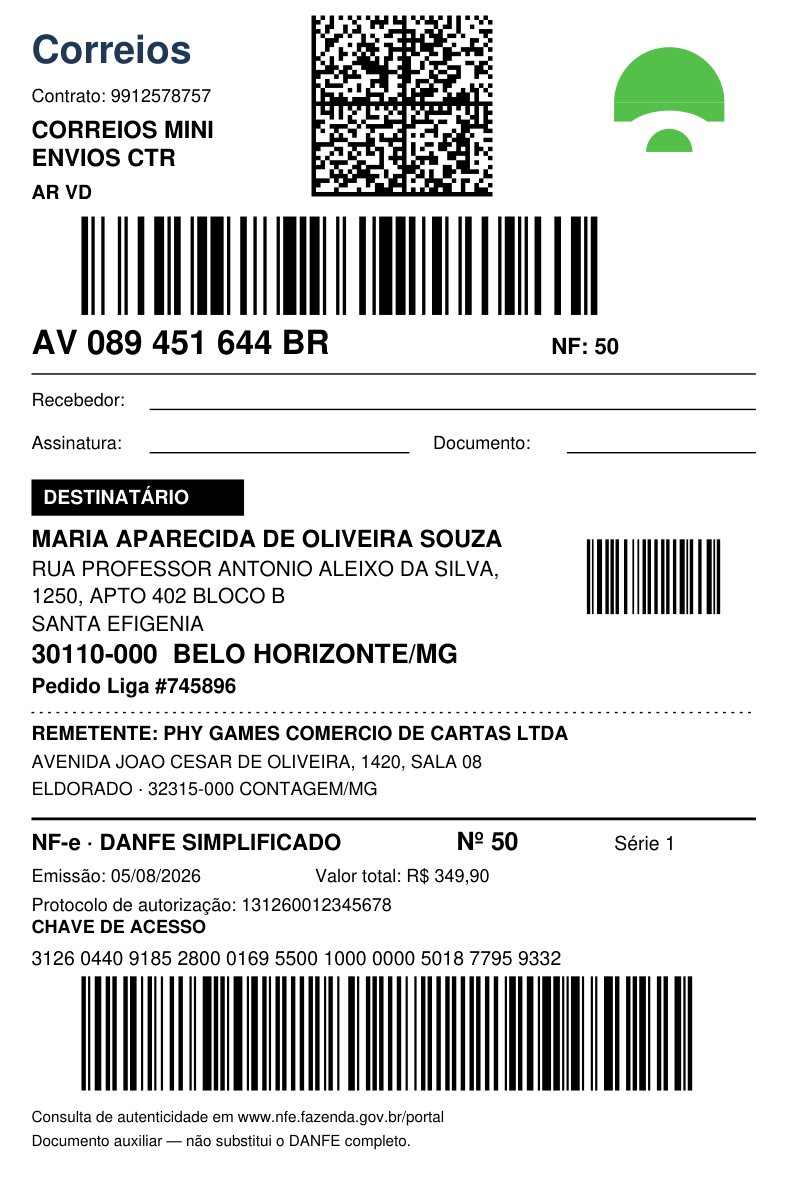
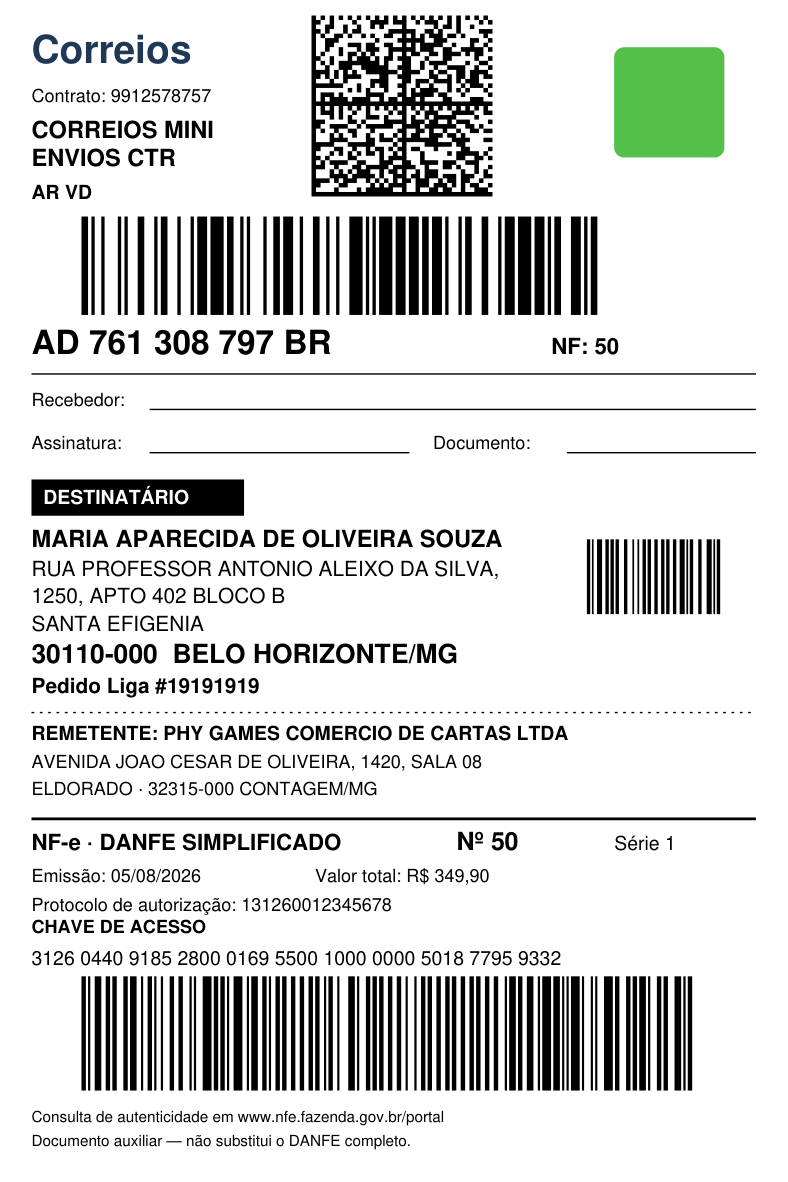
Usa o simbolo correto por servico: domo SEDEX, bola PAC, quadrado Mini.

diff --git a/etiqueta_hibrida.py b/etiqueta_hibrida.py
@@ -102,49 +102,56 @@ def _imagem_datamatrix(texto: str) -> Image.Image:
     ).copy()
 
 
-CORES_SERVICO = {
-    "MINI": (0.33, 0.75, 0.29),
-    "SEDEX": (0.98, 0.70, 0.09),
-    "PAC": (0.02, 0.46, 0.76),
+SIMBOLOS_SERVICO = {
+    "MINI": ("quadrado", (0.33, 0.75, 0.29)),
+    "SEDEX": ("domo", (0.98, 0.70, 0.09)),
+    "PAC": ("circulo", (0.02, 0.46, 0.76)),
 }
 
 
-def _cor_servico(servico: str) -> tuple[float, float, float]:
-    """Cor do símbolo por serviço: Mini Envios verde, SEDEX amarelo, PAC azul."""
+def _simbolo_do_servico(servico: str) -> tuple[str, tuple[float, float, float]]:
+    """Forma e cor conforme o rótulo do portal por serviço."""
     nome = str(servico or "").upper()
-    for chave, cor in CORES_SERVICO.items():
+    for chave, simbolo in SIMBOLOS_SERVICO.items():
         if chave in nome:
-            return cor
-    return CORES_SERVICO["PAC"]
+            return simbolo
+    return SIMBOLOS_SERVICO["PAC"]
 
 
-def _simbolo_servico(c: canvas.Canvas, cx, cy, raio, cor) -> None:
-    """Desenha o símbolo dos Correios (domo com recorte + domo menor)."""
+def _simbolo_servico(c: canvas.Canvas, cx, cy, raio, forma, cor) -> None:
+    """Desenha o símbolo do serviço: domo (SEDEX), bola (PAC) ou quadrado (Mini)."""
     c.setFillColorRGB(*cor)
-    c.rect(cx - raio, cy - raio * 0.35, raio * 2, raio * 0.35, fill=1, stroke=0)
-    c.wedge(cx - raio, cy - raio, cx + raio, cy + raio, 0, 180, fill=1, stroke=0)
-    c.setFillColorRGB(1, 1, 1)
-    c.wedge(
-        cx - raio * 0.86,
-        cy - raio * 1.15,
-        cx + raio * 0.86,
-        cy - raio * 0.15,
-        0,
-        180,
-        fill=1,
-        stroke=0,
-    )
-    c.setFillColorRGB(*cor)
-    c.wedge(
-        cx - raio * 0.42,
-        cy - raio * 1.32,
-        cx + raio * 0.42,
-        cy - raio * 0.48,
-        0,
-        180,
-        fill=1,
-        stroke=0,
-    )
+    if forma == "circulo":
+        c.circle(cx, cy, raio, fill=1, stroke=0)
+    elif forma == "quadrado":
+        c.roundRect(
+            cx - raio, cy - raio, raio * 2, raio * 2, raio * 0.18, fill=1, stroke=0
+        )
+    else:
+        c.rect(cx - raio, cy - raio * 0.35, raio * 2, raio * 0.35, fill=1, stroke=0)
+        c.wedge(cx - raio, cy - raio, cx + raio, cy + raio, 0, 180, fill=1, stroke=0)
+        c.setFillColorRGB(1, 1, 1)
+        c.wedge(
+            cx - raio * 0.86,
+            cy - raio * 1.15,
+            cx + raio * 0.86,
+            cy - raio * 0.15,
+            0,
+            180,
+            fill=1,
+            stroke=0,
+        )
+        c.setFillColorRGB(*cor)
+        c.wedge(
+            cx - raio * 0.42,
+            cy - raio * 1.32,
+            cx + raio * 0.42,
+            cy - raio * 0.48,
+            0,
+            180,
+            fill=1,
+            stroke=0,
+        )
     c.setFillColorRGB(0, 0, 0)
 
 
@@ -284,7 +291,7 @@ def _desenhar_pagina(
 
     # Cabeçalho: marca, contrato, serviço e DataMatrix.
     servico = _limitar(item.get("servico"), 30)
-    cor = _cor_servico(servico)
+    forma, cor = _simbolo_do_servico(servico)
     c.setFillColorRGB(0.12, 0.22, 0.34)
     c.setFont("Helvetica-Bold", 14)
     c.drawString(esq, 142 * mm, "Correios")
@@ -308,7 +315,7 @@ def _desenhar_pagina(
         preserveAspectRatio=True,
         mask="auto",
     )
-    _simbolo_servico(c, 85 * mm, 137 * mm, 7 * mm, cor)
+    _simbolo_servico(c, 85 * mm, 137 * mm, 7 * mm, forma, cor)
 
     # Rastreio em barra larga.
     _barcode(c, rastreio, esq, 110 * mm, util, 12.5 * mm, bar_width=0.42 * mm)
